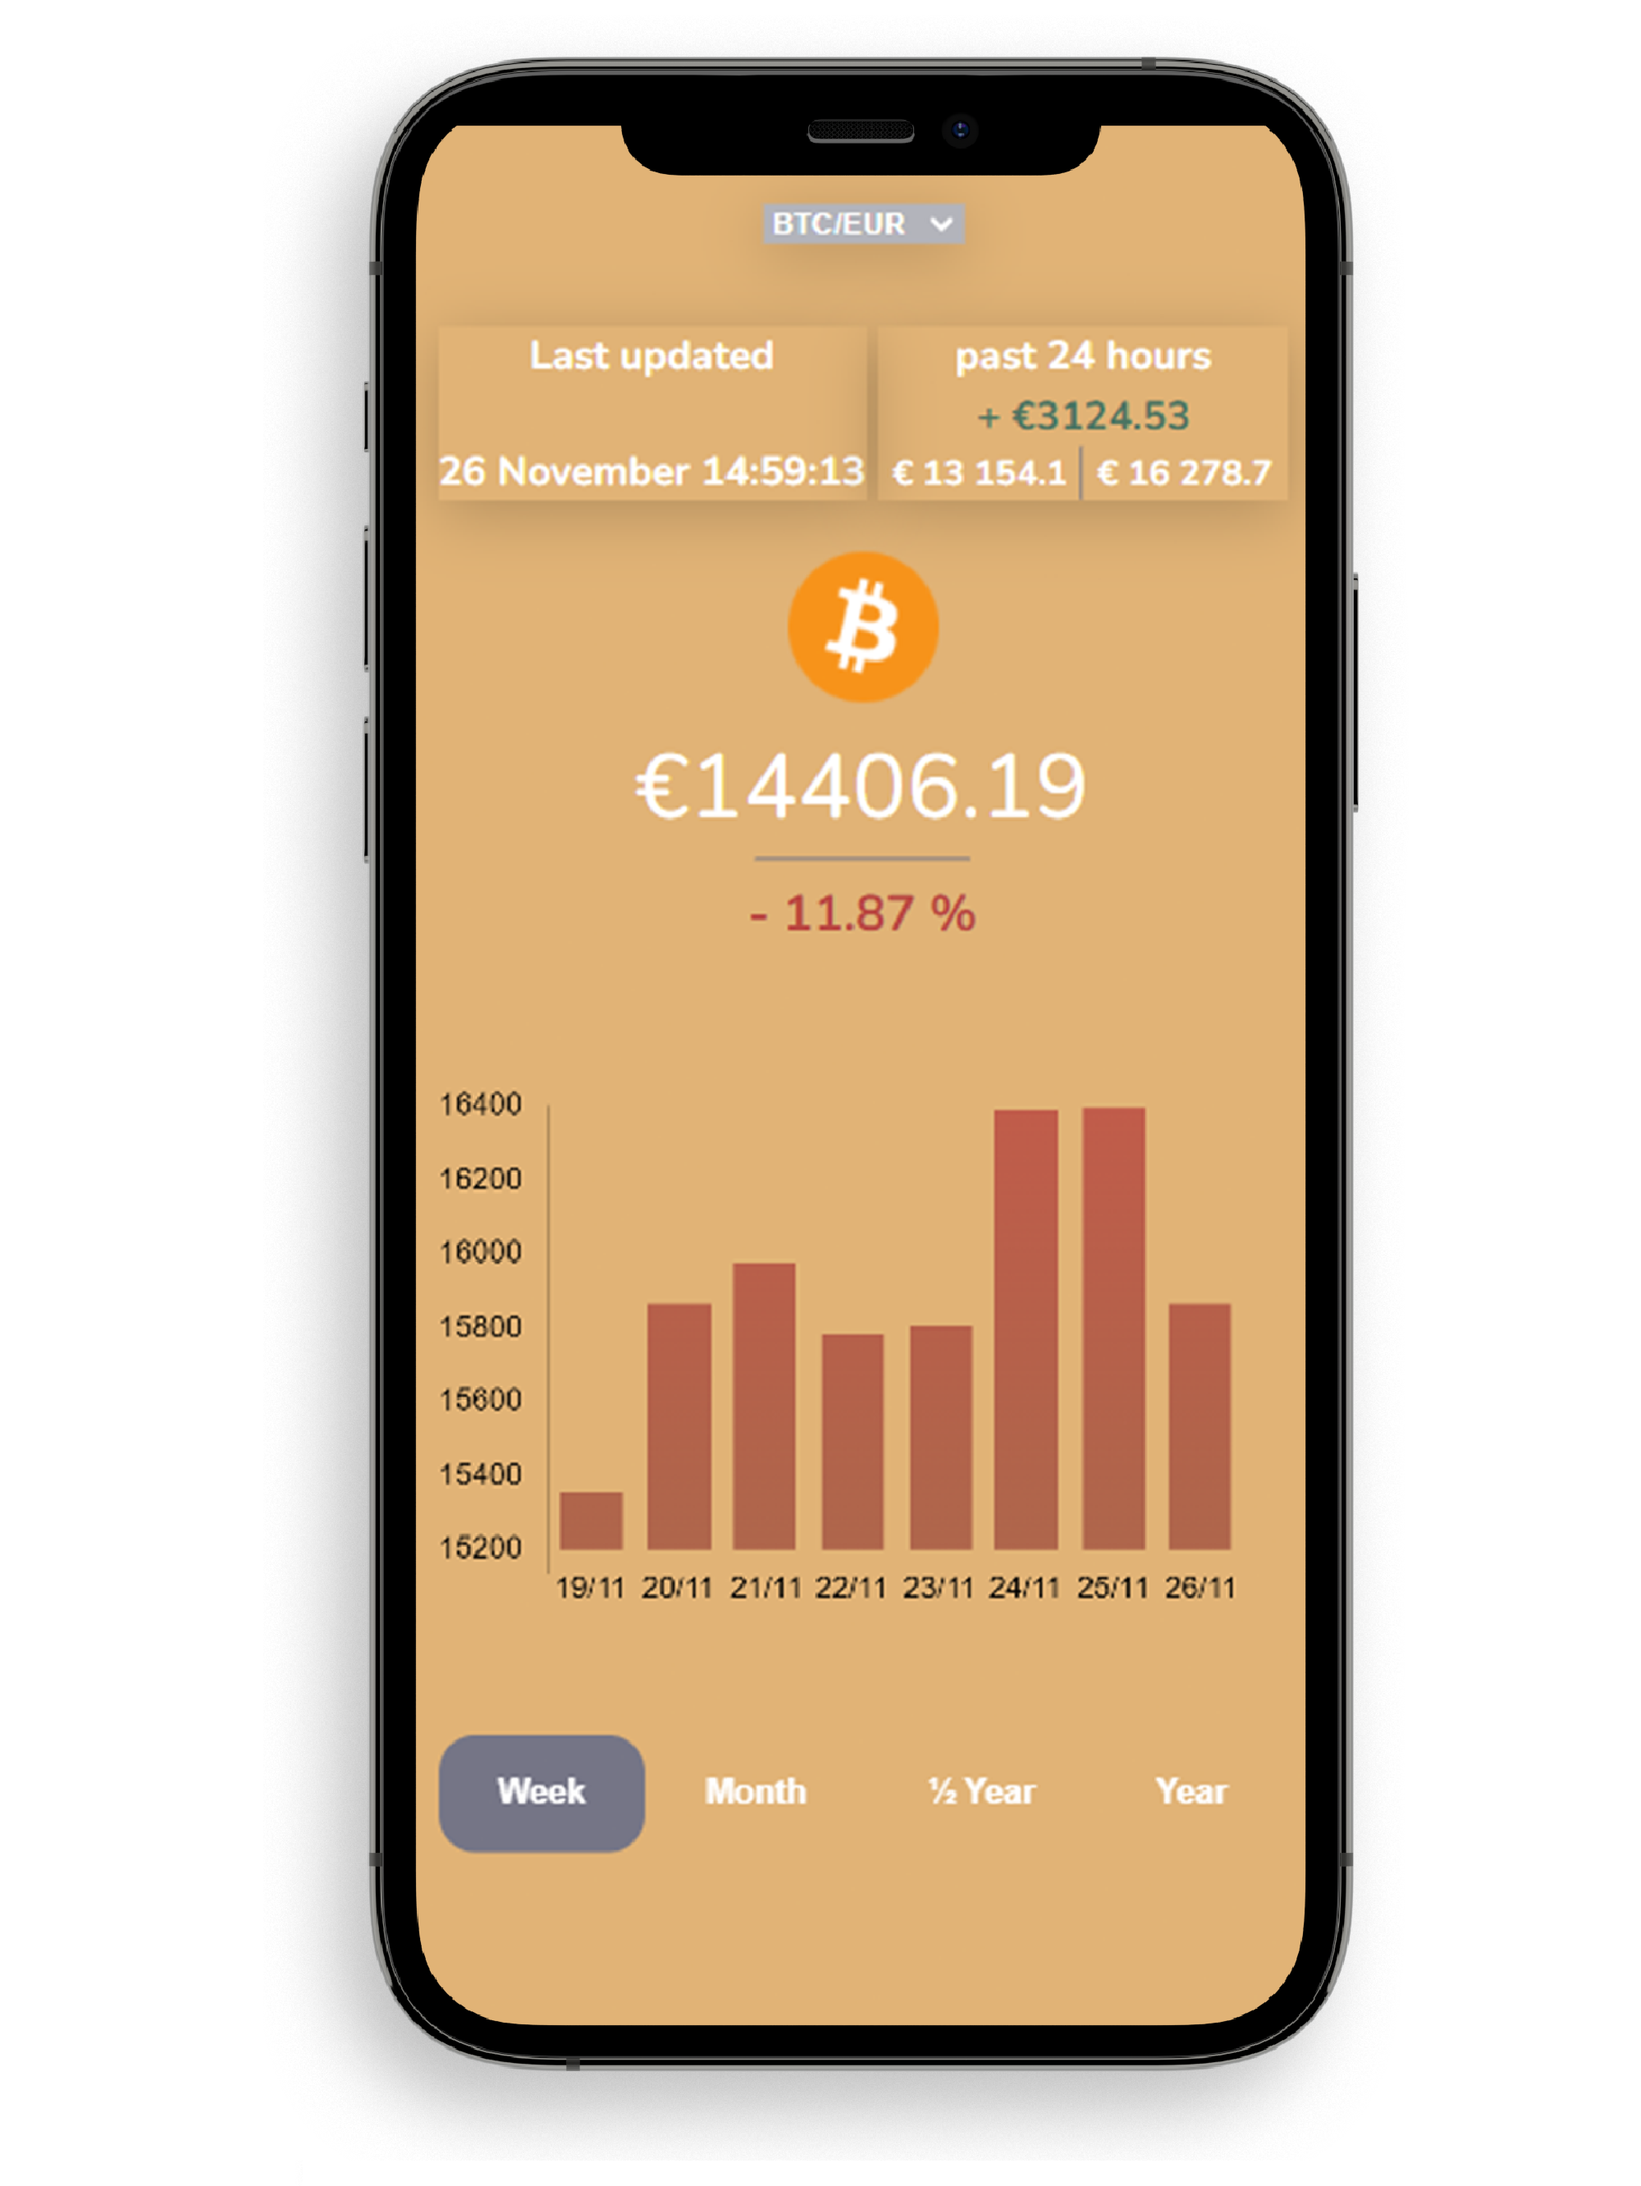
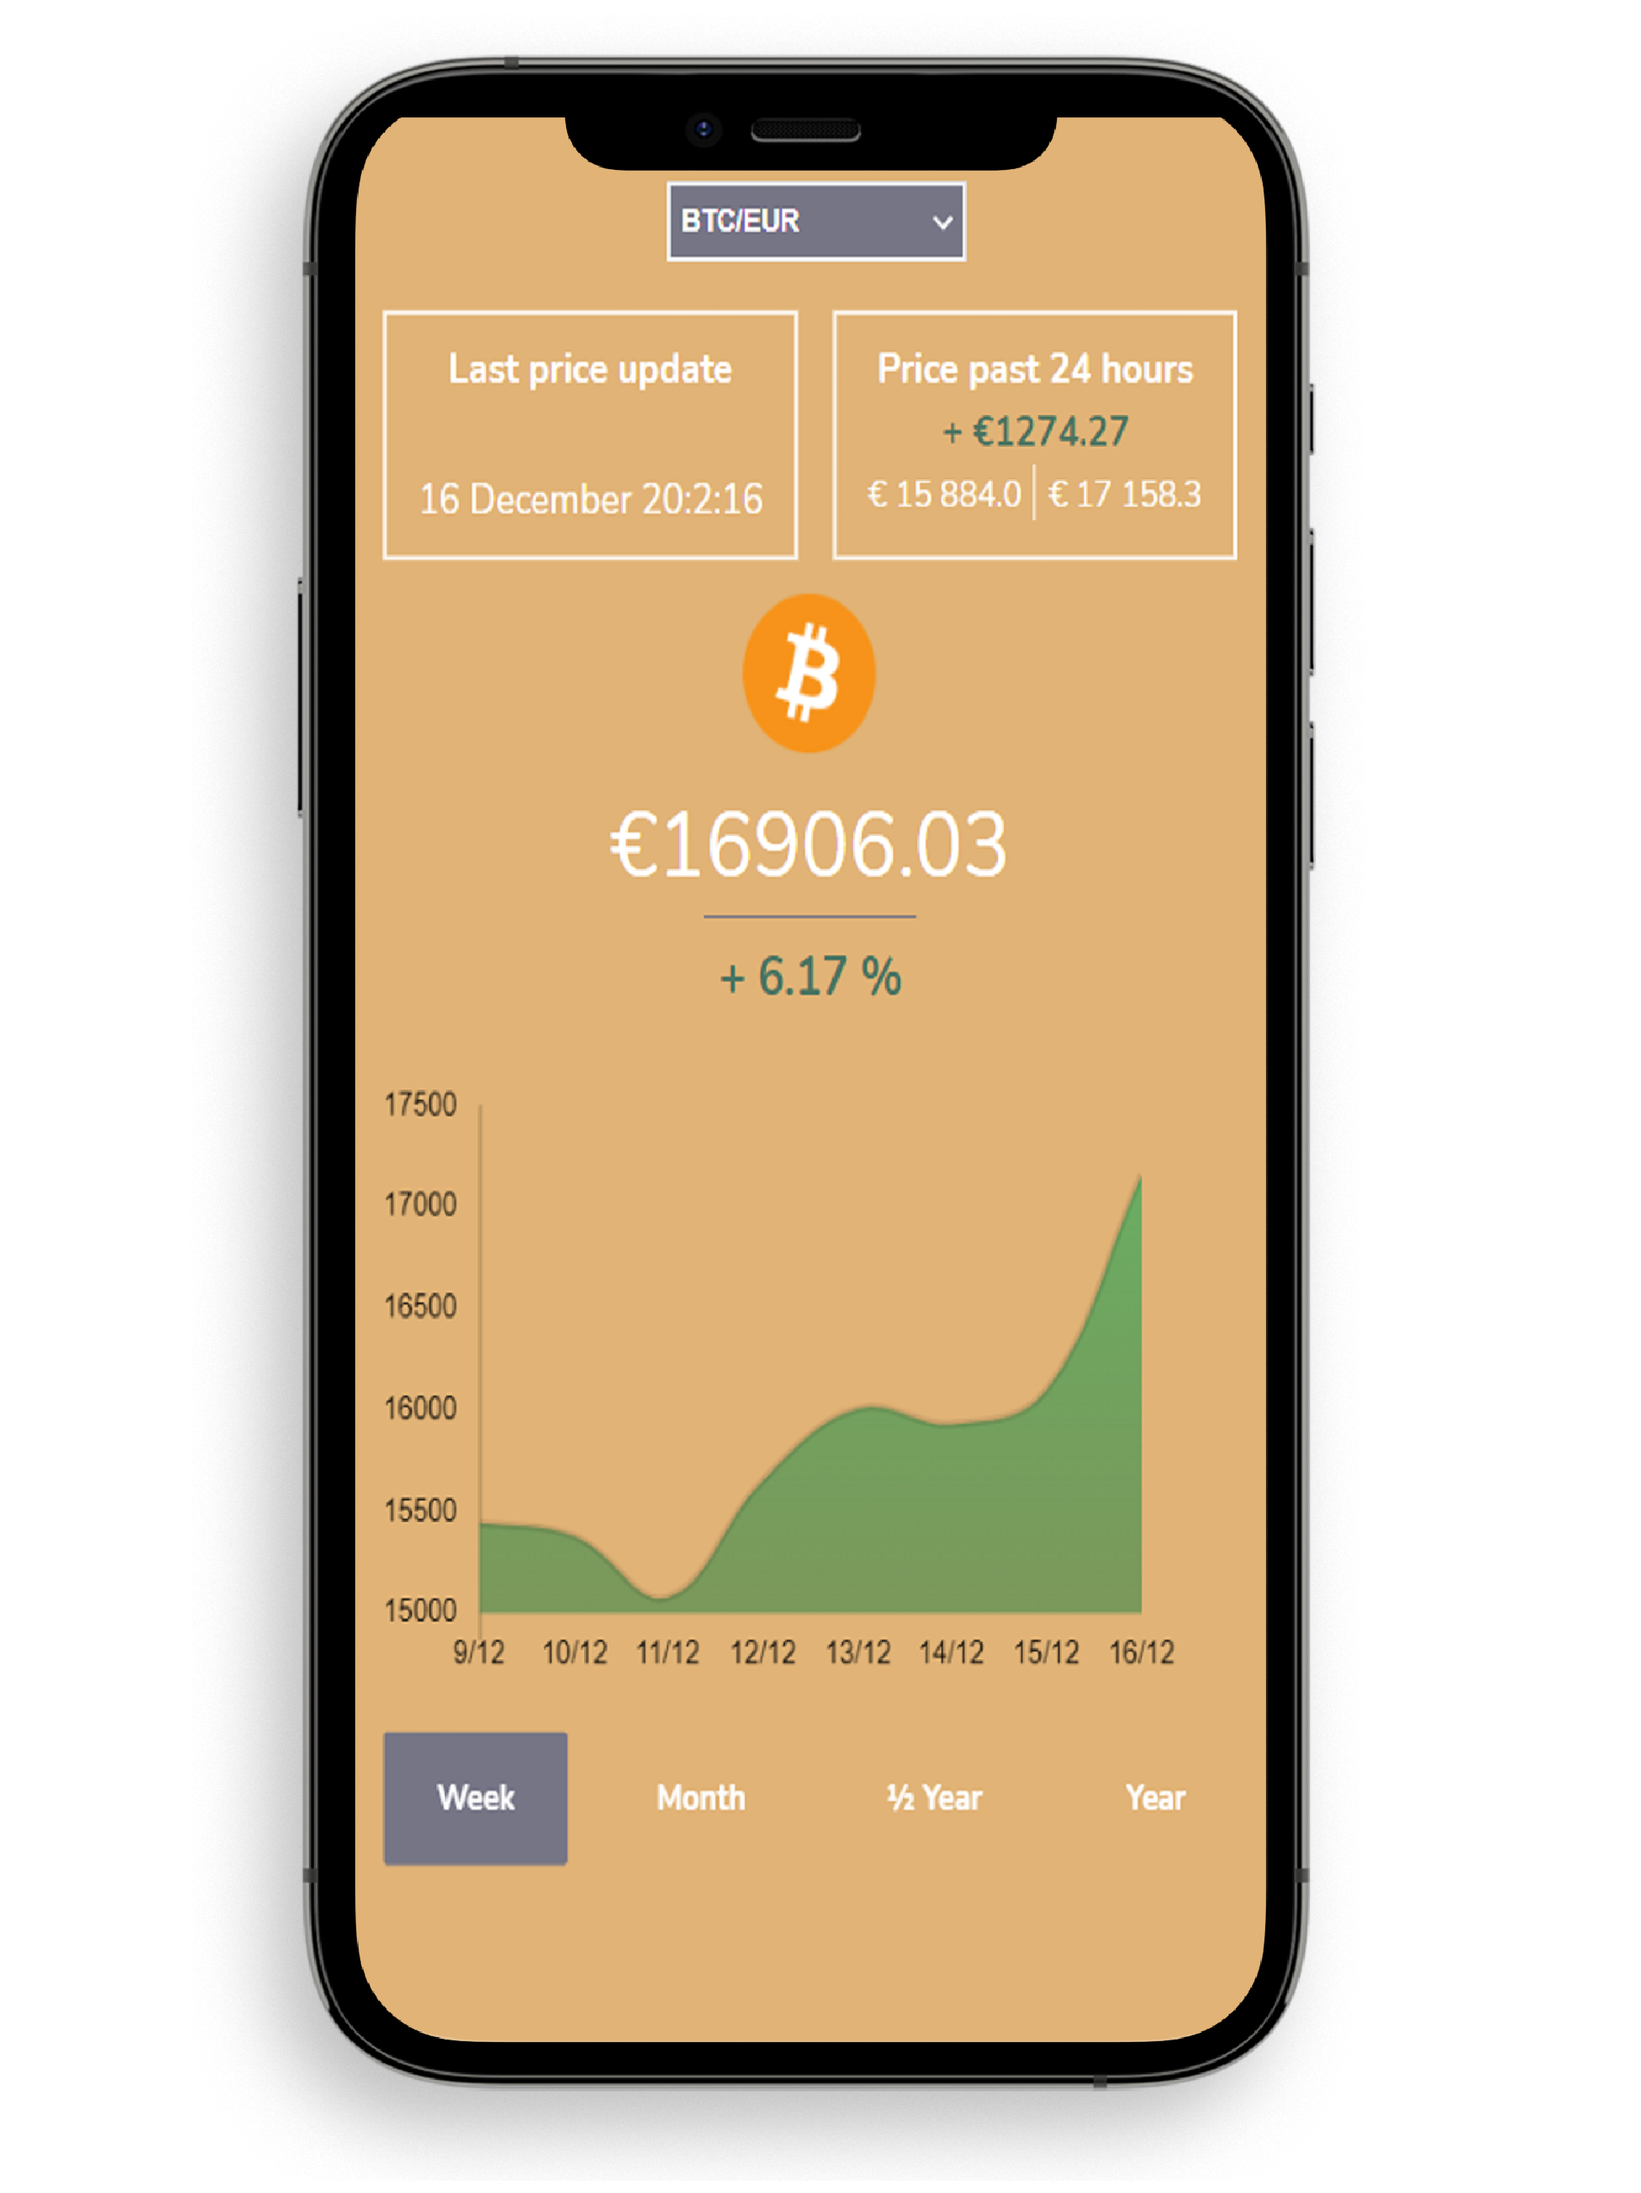
kleine aanpassingen

Changed region(s): [[0.155, 0.0, 0.837, 0.9658], [0.527, 0.8101, 0.62, 0.8412]]

diff --git a/index.html b/index.html
@@ -64,7 +64,7 @@
                 </div>
 
                 <div class="o-row o-row--lg c-appindex__mockup">
-                        <img class="c-image_mockup" src="./images/MockupA.png" alt="mockup">
+                        <img class="c-image_mockup" src="./images/Mockup.png" alt="mockup">
                 </div>
 
                 

diff --git a/script/chart.js b/script/chart.js
@@ -95,7 +95,7 @@ const showChart = function (xValues, yValues, token) {
         gradientFill.addColorStop(1, "transparent");
 
         let config = {
-            type: 'bar',
+            type: 'line',
             data: {
                 labels: labels,
                 datasets: [{
